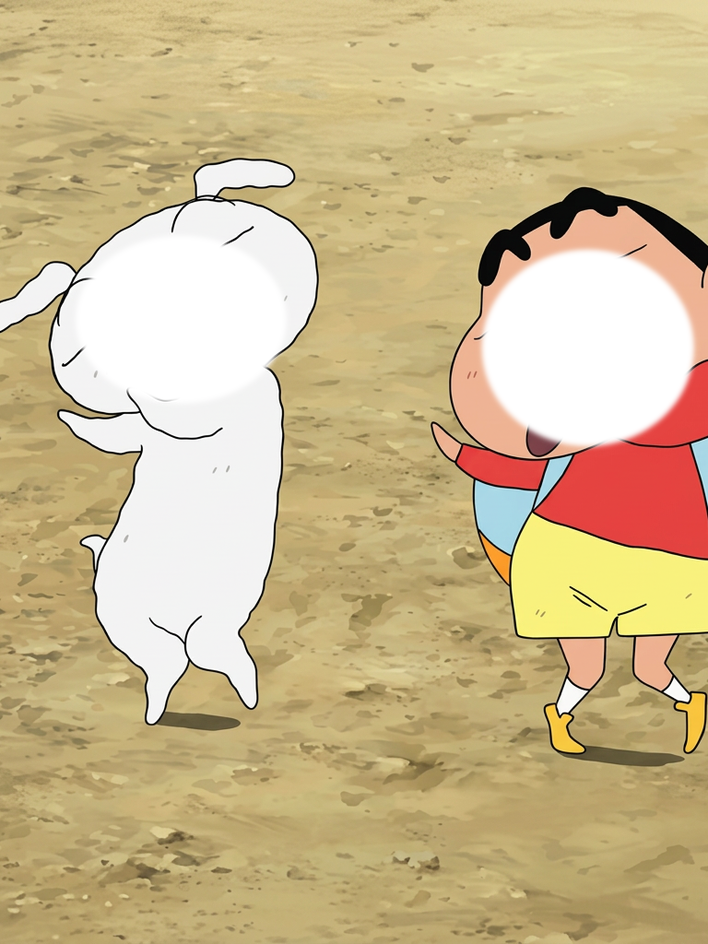
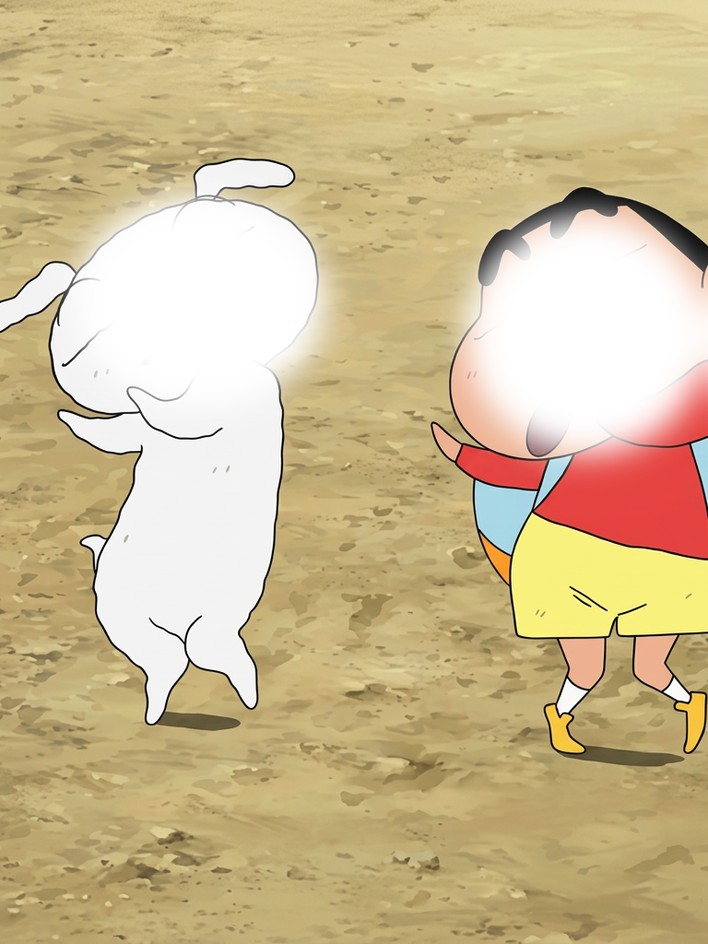
v4.31 얼굴 자리 여러 명(왼쪽부터), #86·#88·#92 얼굴 인식 프레임, #87 구멍, #89 배율, 243 삭제
Claude-Session: https://claude.ai/code/session_01LMf8UAwMNLbidmC1Q5Dsz8

diff --git a/index.html b/index.html
@@ -417,7 +417,7 @@
 
 <script>
 /* ================= 설정 ================= */
-const APP_VERSION = 'v4.30';
+const APP_VERSION = 'v4.31';
 const CONFIG = {
   // 시작 화면 문구 (줄바꿈은 \n)
   START_TITLE: '이유는 분명 있었고\n지금도 납득은 가지만\n어쩌구 사진관',
@@ -595,7 +595,15 @@ function compose(ctx, W, H) {
   if (cur.bg) {
     // 배경 → 사람만 오려서 위에 (마스크가 아직 없으면 배경만)
     ctx.drawImage(cur.bg, 0, 0, W, H);
-    if (cur.faceSpot) { for (const sp of [].concat(cur.faceSpot)) drawFaceSpot(ctx, W, H, sw, sh, sp); }
+    if (cur.faceSpot) {
+      const spots = [].concat(cur.faceSpot);
+      if (spots.length === 1) drawFaceSpot(ctx, W, H, sw, sh, spots[0]);
+      else {  // v4.31: 자리가 여러 개면 화면 왼쪽 사람부터 왼쪽 자리에. 사람이 자리보다 적으면 돌려 씀
+        const fs = sw && sh ? facesByX(sw, sh) : [];
+        const rank = spots.map((sp, i) => i).sort((i, j) => spots[i].x - spots[j].x);
+        rank.forEach((i, r) => drawFaceSpot(ctx, W, H, sw, sh, spots[i], fs.length ? fs[r % fs.length] : null));
+      }
+    }
     else if (cur.slot) { if (sw && sh && maskReady) drawSlot(ctx, W, H, sw, sh); }
     else if (cur.copies) { if (sw && sh && maskReady) drawCopies(ctx, W, H, sw, sh); }
     else if (cur.bubbles) { drawBubbles(ctx, W, H, sw, sh); }
@@ -927,7 +935,16 @@ function drawSlot(ctx, W, H, sw, sh) {
 const faceCanvas = document.createElement('canvas'), fctx = faceCanvas.getContext('2d');
 const HEAD = { down: 0.1, rx: 1.45, ry: 1.95 };  // 두 눈 가운데 기준 머리 타원 (d = 두 눈 사이 거리 배수)
 // v4.30: faceSpot을 배열로 주면 자리마다 그림. rotate(도) = 얼굴을 돌려서 넣음(180 = 뒤집기), alpha = 얼굴 투명도
-function drawFaceSpot(ctx, W, H, sw, sh, sp) {
+// 얼굴들 (영상 좌표) — 화면(거울) 왼쪽부터
+function faceOf(t, sw, sh) {
+  let a = { x: t.e1.x * sw, y: t.e1.y * sh }, b = { x: t.e2.x * sw, y: t.e2.y * sh };
+  if (a.x > b.x) [a, b] = [b, a];
+  return { a, b, d: Math.hypot(b.x - a.x, b.y - a.y) };
+}
+function facesByX(sw, sh) {
+  return tracks.map(t => faceOf(t, sw, sh)).filter(f => f.d >= 4).sort((p, q) => (q.a.x + q.b.x) - (p.a.x + p.b.x));
+}
+function drawFaceSpot(ctx, W, H, sw, sh, sp, face) {
   const s = W / cur.W;
   const cx = sp.x * s, cy = sp.y * s, tw = Math.round(sp.w * s), th = Math.round(sp.h * s);
   if (sp.glow !== false) {  // 해처럼 빛 번짐
@@ -939,14 +956,9 @@ function drawFaceSpot(ctx, W, H, sw, sh, sp) {
     ctx.restore();
   }
   if (!sw || !sh || !tracks.length) return;
-  // 가장 큰 얼굴 (영상 픽셀 좌표, 좌우반전 전)
-  let best = null, bd = 0;
-  for (const t of tracks) {
-    let a = { x: t.e1.x * sw, y: t.e1.y * sh }, b = { x: t.e2.x * sw, y: t.e2.y * sh };
-    if (a.x > b.x) [a, b] = [b, a];
-    const d = Math.hypot(b.x - a.x, b.y - a.y);
-    if (d > bd) { bd = d; best = { a, b, d }; }
-  }
+  // 정해 준 얼굴, 없으면 가장 큰 얼굴 (영상 픽셀 좌표, 좌우반전 전)
+  let best = face === undefined ? null : face;
+  if (face === undefined) for (const t of tracks) { const f = faceOf(t, sw, sh); if (!best || f.d > best.d) best = f; }
   if (!best || best.d < 4) return;
   const ang = Math.atan2(best.b.y - best.a.y, best.b.x - best.a.x);
   const m = mid(best.a, best.b);

diff --git a/CHANGELOG.md b/CHANGELOG.md
@@ -15,6 +15,11 @@ git checkout <버전의 커밋> -- index.html tools .github
 git commit -m "v3.0으로 되돌림" && git push origin HEAD:main
 ```
 
+## v4.31 — 얼굴 자리 여러 명
+- 얼굴 자리가 여러 개면 화면 왼쪽 사람부터 왼쪽 자리에(사람이 적으면 돌려 씀). `facesByX()`
+- #86 061(하트 두 사람, 얼굴 ±35°), #88 063(5명), #92 067(개똥 던지기 4명)을 얼굴 자리 프레임으로 (`frames/061 얼굴/` 등, 원래 컷 파일은 frame.png로 옮김)
+- #87 구멍 새로(페더), #89 배율 0.5, 243 삭제
+
 ## v4.30 — 얼굴 여러 자리
 - `faceSpot`을 배열로: 자리마다 가장 큰 얼굴을 넣고 `rotate`(도)로 돌림, `glow:false`면 빛 없이 그대로. #3 임시 3 = `frames/임시 3/`(face.json: 오른쪽 위 -45°, 왼쪽 아래 180° 뒤집기)
 - #1 임시 1 점검표 4차 반영 되돌림(누운 컷 그대로, 배율 기본)
